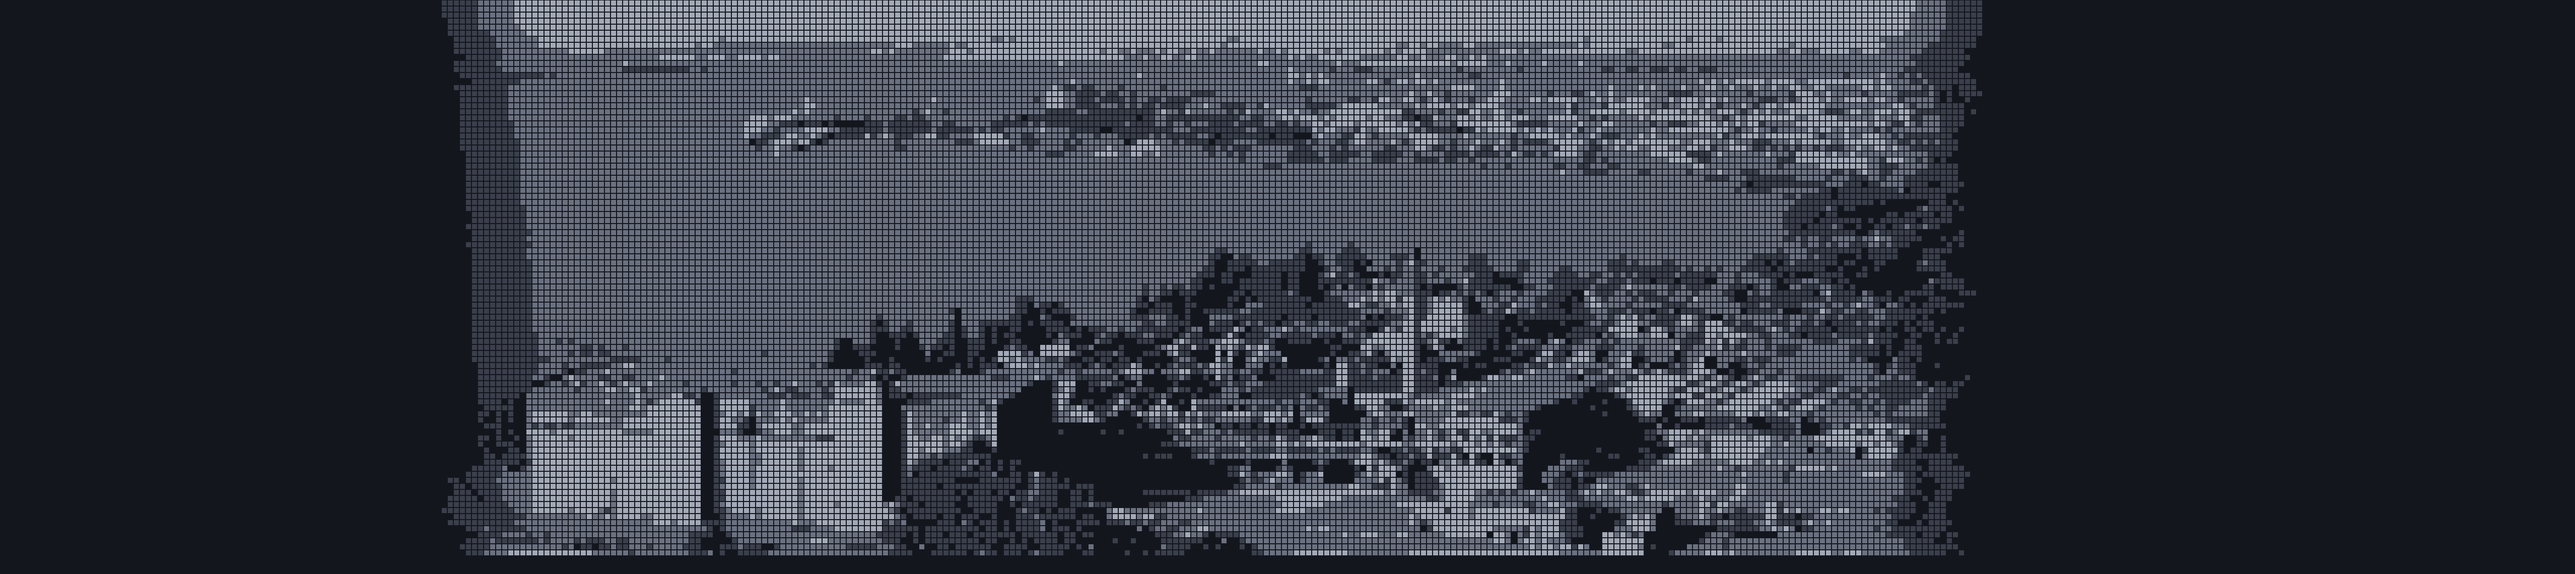
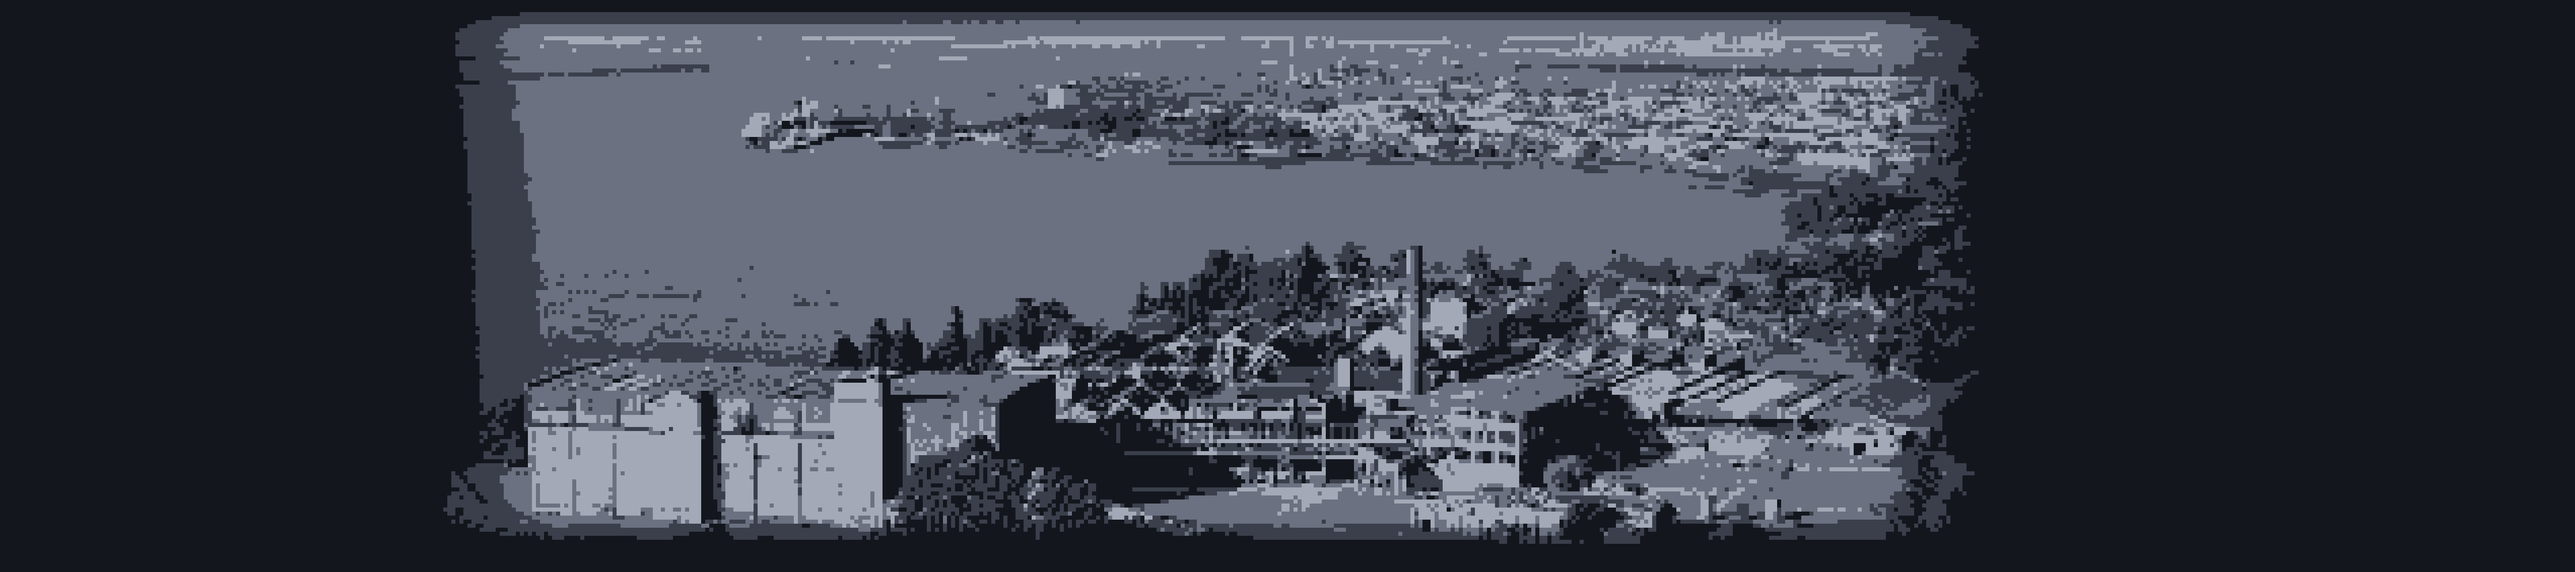
Hero web: imagen entera en laptops, cuadritos de 4 px y panel con filete
Hasta 1440 px la imagen del fondo se achica con la pantalla, así se ve
la composición completa en vez de un recorte. Los cuadritos pasan de 6 a
4 px y la imagen se apaga también arriba y abajo. "A continuación" pasa
de vidrio redondeado a panel oscuro recto con filete naranja.

Claude-Session: https://claude.ai/code/session_01XDQNezff6H2LUhgaf4Q66F

Changed region(s): [[0.1555, 0.0, 0.7776, 0.9859]]

diff --git a/src/sitio/componentes/inicio/FondoPixelado.tsx b/src/sitio/componentes/inicio/FondoPixelado.tsx
@@ -3,14 +3,15 @@
 import { useEffect, useRef } from 'react'
 
 /**
- * Fondo del hero del Inicio en web (desde 1024 px): fotos de Fray Bentos pasadas a cuadritos de 6 px en
+ * Fondo del hero del Inicio en web (desde 1024 px): fotos de Fray Bentos pasadas a cuadritos de 4 px en
  * cuatro tonos del tinta, que se turnan cada 9 segundos. El cambio se hace cuadrito por cuadrito, en
  * orden al azar. Las imágenes ya vienen en cuadritos (public/hero), así que el navegador solo copia
  * pedazos de una sobre otra. Del lado del texto la foto se apaga para que el título se lea.
  *
- * Las imágenes se muestran a tamaño fijo (1278 × 285 en pantalla) y centradas con el contenido, sin
- * escalar: así la figura cae siempre entre el título y la lista, y el cuadrito mide 6 px en cualquier
- * ancho. Son más anchas que la pantalla y se apagan solas en los costados.
+ * La composición está pensada para 1440 px: hasta ese ancho la imagen se achica junto con la pantalla
+ * (se ve entera, con los cuadritos un poco más chicos), y en pantallas más anchas queda a 2556 × 568 y
+ * centrada, así la figura cae siempre entre el título y la lista. Las imágenes se apagan solas en los
+ * bordes, y el degradé del lado del texto acompaña el ancho.
  *
  * Sin JavaScript, o hasta que carga, se ve la primera como fondo fijo. Con "reducir movimiento" queda
  * fija la que salió al azar, y con la pestaña oculta no cambia.
@@ -18,9 +19,11 @@ import { useEffect, useRef } from 'react'
 const IMAGENES = ['/hero/mosaico-plaza.png', '/hero/mosaico-anglo.png']
 
 /** Lado del cuadrito dentro de la imagen (las imágenes están al doble: 6 px en pantalla). */
-const CELDA = 12
+const CELDA = 8
 /** Las imágenes están al doble del tamaño en pantalla. */
 const ESCALA = 0.5
+/** Ancho para el que está armada la composición. */
+const DISENO = 1440
 const PAUSA = 9000
 const DURACION = 1300
 
@@ -63,7 +66,7 @@ export function FondoPixelado() {
       canvas.height = Math.round(r.height * dpr)
       const W = canvas.width
       const H = canvas.height
-      const s = ESCALA * dpr
+      const s = ESCALA * dpr * Math.min(1, r.width / DISENO)
       return { s, x: (W - im.width * s) / 2, y: (H - im.height * s) / 2, W, H }
     }
     const capa = (im: HTMLImageElement) => {
@@ -144,11 +147,11 @@ export function FondoPixelado() {
 
   return (
     <div aria-hidden className="pointer-events-none absolute inset-0 -z-10 hidden lg:block">
-      <div className="absolute inset-0 bg-[url(/hero/mosaico-plaza.png)] bg-[length:1278px_auto] bg-center bg-no-repeat [mask-image:linear-gradient(90deg,transparent_calc(50%-460px),#000_calc(50%-30px))]">
+      <div className="absolute inset-0 bg-[url(/hero/mosaico-plaza.png)] bg-[length:min(177.5vw,2556px)_auto] bg-center bg-no-repeat [mask-image:linear-gradient(90deg,transparent_max(18%,calc(50%-460px)),#000_max(48%,calc(50%-30px)))]">
         <canvas ref={lienzo} className="absolute inset-0 size-full opacity-0" />
       </div>
       {/* Velo: oscuro donde va el texto, abierto donde está la figura */}
-      <div className="absolute inset-0 bg-[linear-gradient(90deg,rgb(19_22_29/0.6)_calc(50%-290px),rgb(19_22_29/0.25)_calc(50%+30px),transparent_calc(50%+290px))]" />
+      <div className="absolute inset-0 bg-[linear-gradient(90deg,rgb(19_22_29/0.6)_max(30%,calc(50%-290px)),rgb(19_22_29/0.25)_max(52%,calc(50%+30px)),transparent_max(70%,calc(50%+290px)))]" />
     </div>
   )
 }

diff --git a/src/sitio/componentes/inicio/HeroEnVivo.tsx b/src/sitio/componentes/inicio/HeroEnVivo.tsx
@@ -28,8 +28,8 @@ function avance(inicio: string, fin: string, minutos: number) {
 /**
  * Hero oscuro del Inicio (design/LEEME.md, sección 7): el programa al aire con su avance y "A
  * continuación". En el celular muestra dos programas y debajo la publicidad, que llega como `children`.
- * En web lleva de fondo fotos de la ciudad en cuadritos (FondoPixelado) y "A continuación" va en una caja
- * de vidrio esmerilado, que deja ver el fondo sin que la lista pierda lectura.
+ * En web lleva de fondo fotos de la ciudad en cuadritos (FondoPixelado) y "A continuación" va en un
+ * panel oscuro recto con un filete naranja arriba, para que la lista se lea sobre la imagen.
  */
 export function HeroEnVivo({ telefono, children }: { telefono: string; children?: React.ReactNode }) {
   const { alAire, grilla, excepciones, ahora } = useRadio()
@@ -97,7 +97,7 @@ export function HeroEnVivo({ telefono, children }: { telefono: string; children?
 
         <div
           id="programacion"
-          className="mt-2.5 flex min-w-0 flex-[1_1_380px] flex-col md:mt-0 lg:self-center lg:rounded-[16px] lg:bg-tinta/60 lg:px-6 lg:pt-[22px] lg:pb-2 lg:shadow-[inset_0_0_0_1px_rgb(255_255_255/0.12),0_24px_48px_-24px_rgb(0_0_0/0.6)] lg:backdrop-blur-[3px]"
+          className="mt-2.5 flex min-w-0 flex-[1_1_380px] flex-col md:mt-0 lg:self-center lg:bg-tinta/90 lg:px-6 lg:pt-[22px] lg:pb-2 lg:shadow-[inset_0_3px_0_var(--color-acento),0_24px_48px_-24px_rgb(0_0_0/0.6)]"
         >
           <div className="flex items-baseline justify-between border-b-[3px] border-blanco pb-2 md:pb-2.5">
             <h2 className="m-0 text-xs font-extrabold tracking-[0.1em] uppercase md:text-[13px]">
